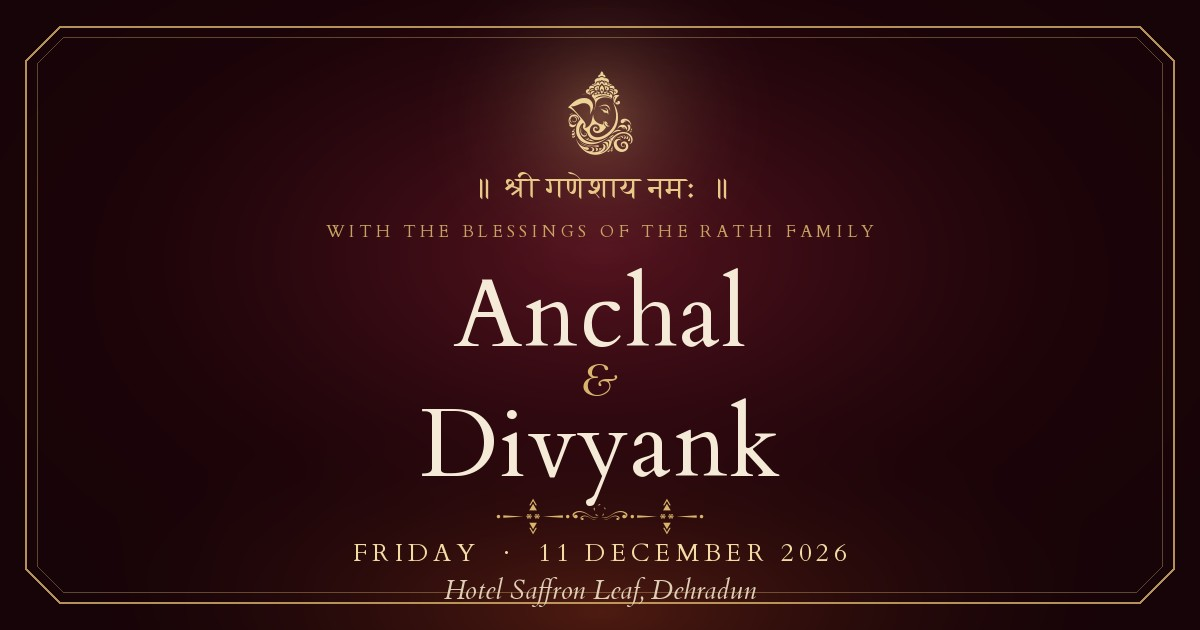
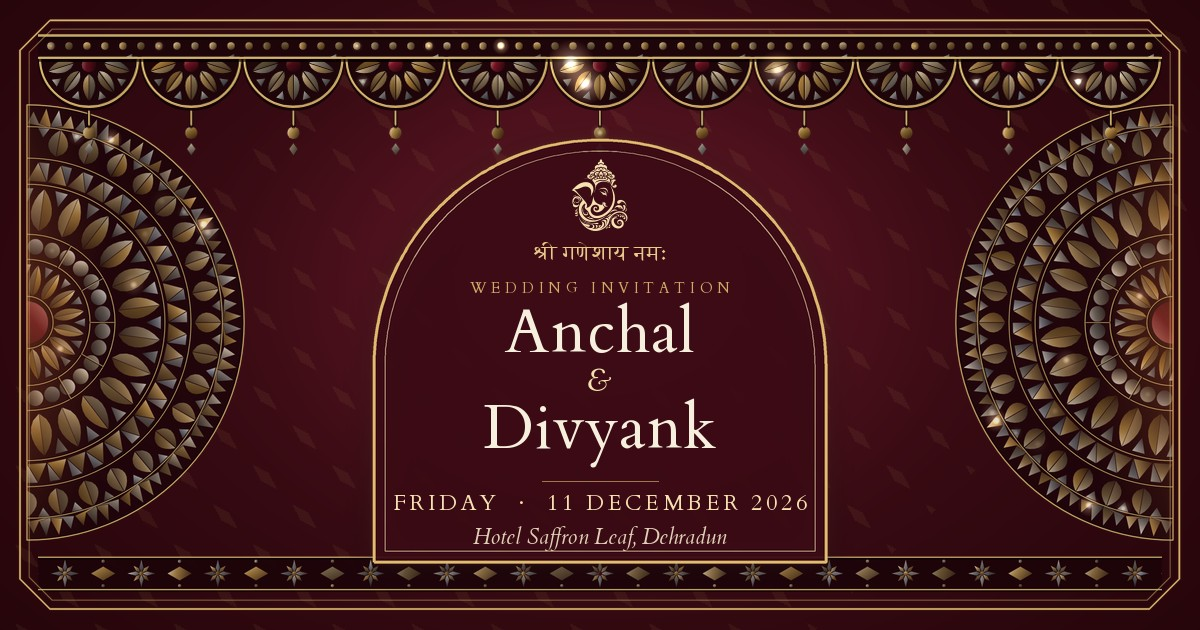
added-preview

diff --git a/README.md b/README.md
@@ -18,10 +18,11 @@ Run locally: `python3 -m http.server 8000` in this folder, open http://localhost
 
 ## Link preview
 
-`og-preview.jpg` (1200×630) is the card shown when the link is pasted into WhatsApp,
-Instagram DMs, iMessage or Facebook. It is built from this project's own Ganesha and
-divider artwork, so it matches the invitation. To change it, replace the file and keep
-the same name and dimensions.
+`og-preview.jpg` (1200×630) is the card shown when the link is pasted or forwarded in
+WhatsApp, Instagram DMs, iMessage or Facebook. It is composed from the invitation's own
+rendered artwork — the jhalar toran, the jewelled mandala and the star frieze are the
+same canvas ornaments the site draws — so the preview and the page match exactly.
+To change it, replace the file, keeping the name and the 1200×630 dimensions.
 
 The page is `noindex, nofollow` so it stays out of Google. That does not block WhatsApp
 or Facebook previews — those still work.
